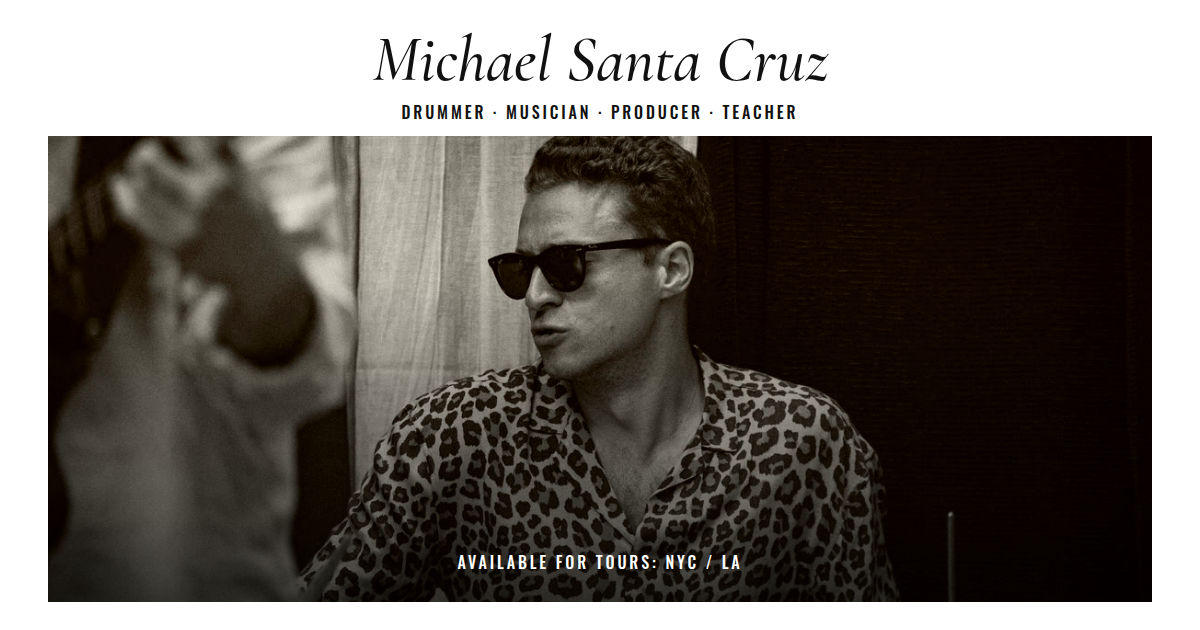
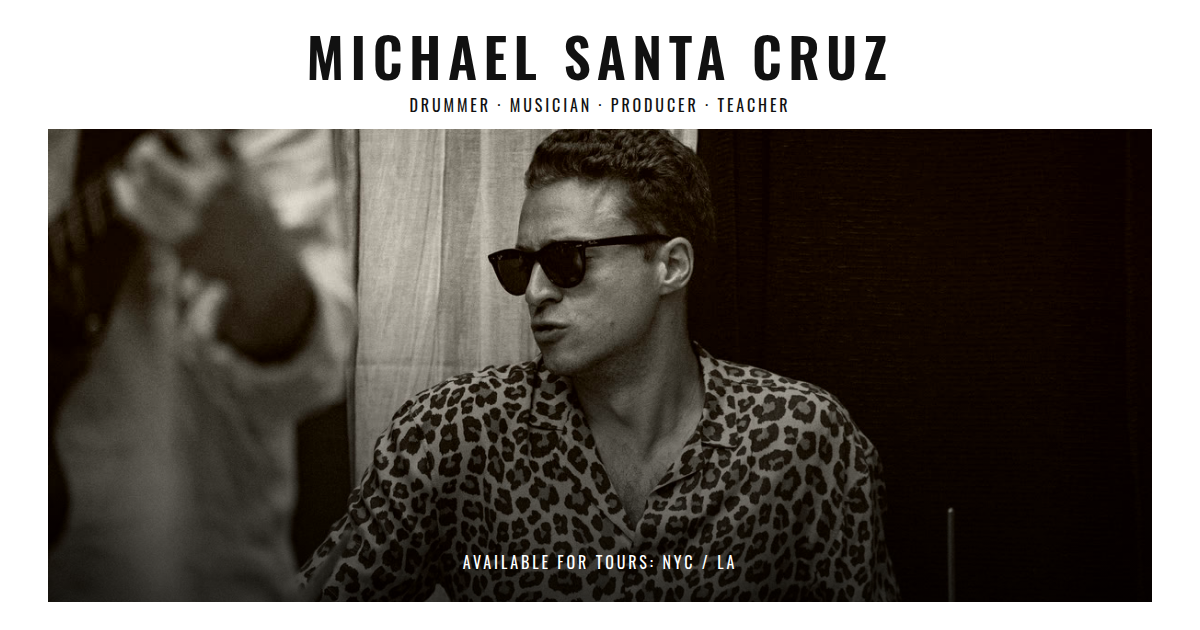
Set the wordmark and headings in condensed all-caps
Use Oswald for the name, navigation, and section titles so the page reads as one label system, and keep longer text in sentence case.

diff --git a/src/styles.css b/src/styles.css
@@ -1,17 +1,9 @@
-/* Cormorant Garamond, Oswald, and Source Sans 3 are under the SIL Open Font License. See public/fonts. */
-
-@font-face {
-  font-family: "Cormorant Garamond";
-  font-style: italic;
-  font-weight: 500 600;
-  font-display: swap;
-  src: url("/fonts/cormorant-garamond-italic.woff2") format("woff2");
-}
+/* Oswald and Source Sans 3 are under the SIL Open Font License. See public/fonts. */
 
 @font-face {
   font-family: Oswald;
   font-style: normal;
-  font-weight: 400 500;
+  font-weight: 400 700;
   font-display: swap;
   src: url("/fonts/oswald-latin.woff2") format("woff2");
 }
@@ -29,7 +21,6 @@
   --paper: #ffffff;
   --muted: #5c5c5c;
   --line: rgba(17, 17, 17, 0.14);
-  --script: "Cormorant Garamond", "Palatino Linotype", Palatino, serif;
   --cond: Oswald, "Arial Narrow", sans-serif;
   --body: "Source Sans 3", "Segoe UI", sans-serif;
   --header-h: 8.5rem;
@@ -115,13 +106,14 @@ a, button { -webkit-tap-highlight-color: transparent; }
 
 .wordmark h1 {
   margin: 0;
-  font-family: var(--script);
-  font-style: italic;
-  font-weight: 500;
-  font-size: clamp(2.5rem, 6vw, 4.15rem);
-  letter-spacing: 0.01em;
-  line-height: 1;
+  font-family: var(--cond);
+  font-style: normal;
+  font-weight: 600;
+  font-size: clamp(1.7rem, 5.4vw, 3.35rem);
+  letter-spacing: 0.14em;
+  line-height: 1.05;
   text-align: center;
+  text-transform: uppercase;
 }
 
 .nav-toggle {
@@ -228,12 +220,12 @@ a, button { -webkit-tap-highlight-color: transparent; }
 
 .tagline {
   margin: 0;
-  font-family: var(--script);
-  font-style: italic;
-  font-weight: 500;
-  font-size: clamp(1.35rem, 3vw, 2.15rem);
-  letter-spacing: 0.02em;
-  text-transform: none;
+  font-family: var(--cond);
+  font-style: normal;
+  font-weight: 400;
+  font-size: clamp(0.78rem, 1.8vw, 1.05rem);
+  letter-spacing: 0.18em;
+  text-transform: uppercase;
 }
 
 .tours {
@@ -646,13 +638,16 @@ button.btn:disabled { opacity: 0.55; cursor: wait; }
 
 .footer-mark {
   display: inline-block;
+  max-width: 100%;
   color: #fff;
   text-decoration: none;
-  font-family: var(--script);
-  font-style: italic;
-  font-weight: 500;
-  font-size: clamp(2.8rem, 8vw, 5.4rem);
-  line-height: 1;
+  font-family: var(--cond);
+  font-style: normal;
+  font-weight: 600;
+  font-size: clamp(1.7rem, 6vw, 3.6rem);
+  letter-spacing: 0.14em;
+  line-height: 1.05;
+  text-transform: uppercase;
 }
 
 .footer-rule {

diff --git a/src/og.html b/src/og.html
@@ -4,12 +4,11 @@
     <meta charset="utf-8">
     <title>Michael Santa Cruz</title>
     <style>
-      @font-face { font-family: "Cormorant Garamond"; font-style: italic; font-weight: 500; src: url("../public/fonts/cormorant-garamond-italic.woff2") format("woff2"); }
-      @font-face { font-family: Oswald; font-weight: 500; src: url("../public/fonts/oswald-latin.woff2") format("woff2"); }
+      @font-face { font-family: Oswald; font-weight: 400 700; src: url("../public/fonts/oswald-latin.woff2") format("woff2"); }
       html, body { margin: 0; width: 1200px; height: 630px; overflow: hidden; background: #fff; color: #111; }
       body { display: grid; grid-template-rows: auto 1fr; }
       header { text-align: center; padding: 28px 24px 12px; }
-      h1 { margin: 0; font-family: "Cormorant Garamond", serif; font-style: italic; font-weight: 500; font-size: 64px; line-height: 1; }
+      h1 { margin: 0; font-family: Oswald, sans-serif; font-weight: 600; font-size: 54px; line-height: 1.05; letter-spacing: 0.12em; text-transform: uppercase; }
       p { margin: 8px 0 0; font-family: Oswald, sans-serif; letter-spacing: 0.18em; text-transform: uppercase; font-size: 16px; }
       .frame { position: relative; margin: 0 48px 28px; background: #111; overflow: hidden; }
       .frame img { width: 100%; height: 100%; object-fit: cover; object-position: 62% 40%; display: block; }
